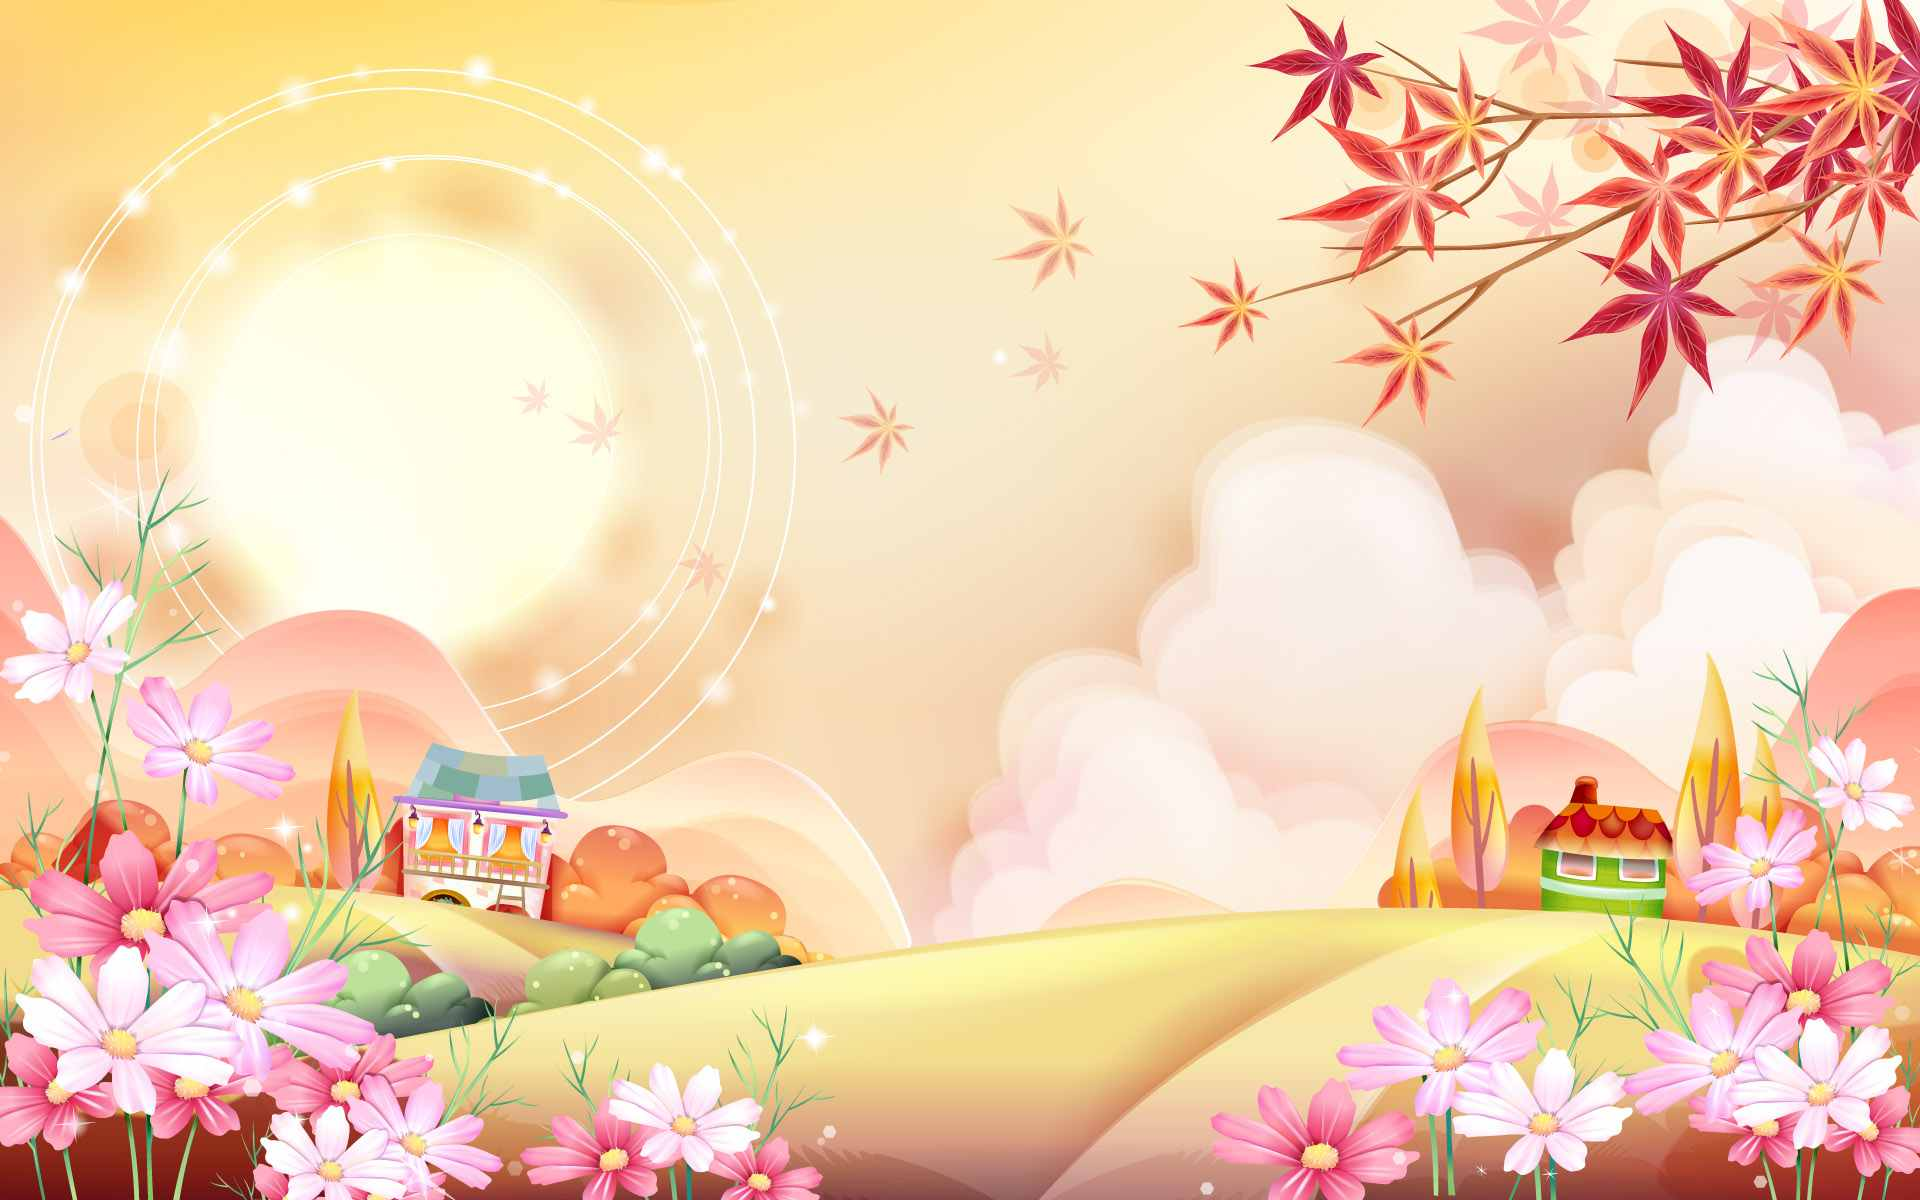
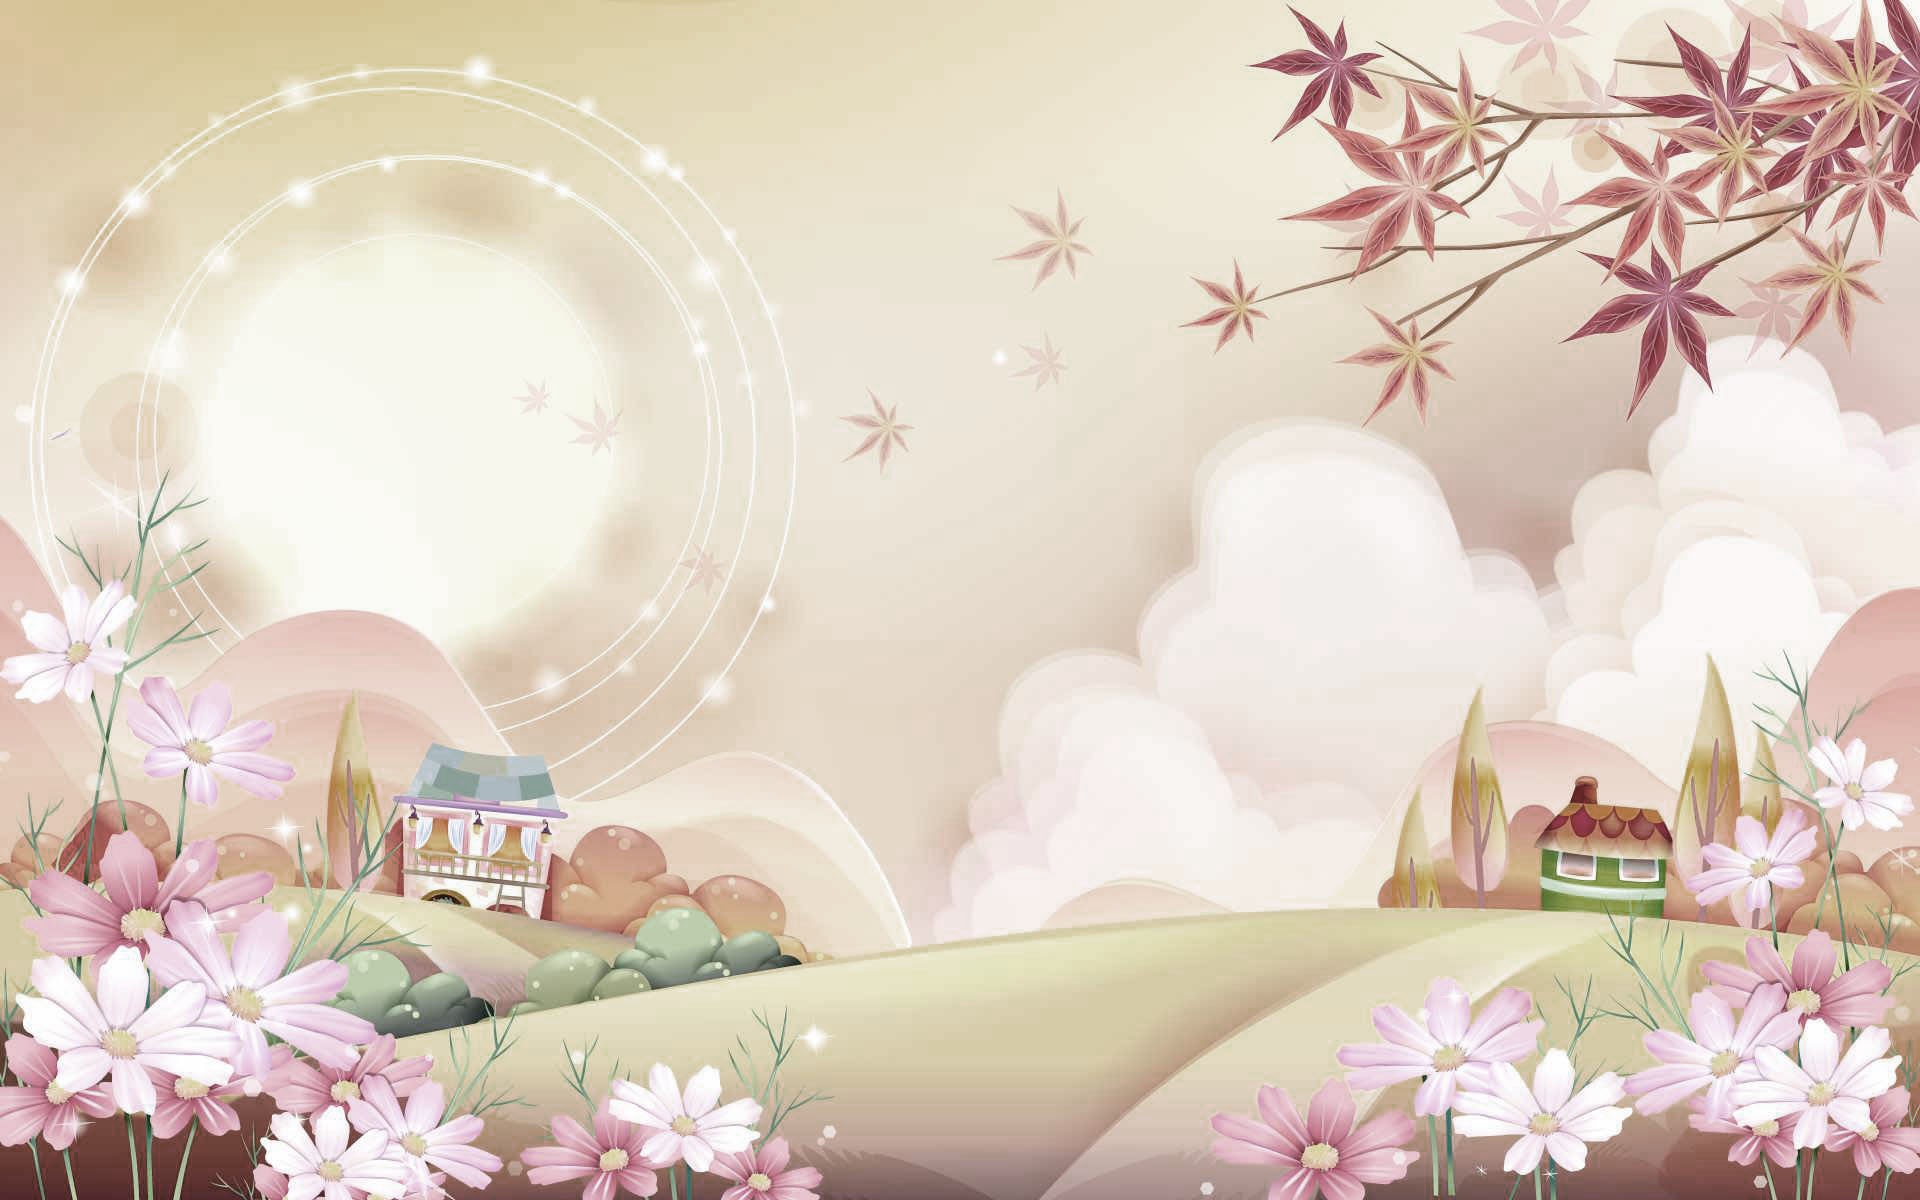
toned down the background & moved buttons inside the jumbotron

diff --git a/index.html b/index.html
@@ -5,16 +5,21 @@
      <meta charset="UTF-8">
      <meta http-equiv="X-UA-Compatible" content="ie=edge">
      <meta name="viewport" content="width=device-width, initial-scale=1.0, shrink-to-fit=no">
-
-     <title>Jiffy-Giphy</title>
      <link rel="shortcut icon" href="assets/images/icon.png" type="image/x-icon" />
+     <title>Jiffy-Giphy</title>
 
-     <!-- normalize before applying styles for consistency across platforms -->
-     <link rel="stylesheet" type="text/css" href="assets/css/normalize.css">
-
-     <!-- Bootstrap styles -->
+     <!-- Bootstrap -->
      <link rel="stylesheet" href="https://stackpath.bootstrapcdn.com/bootstrap/4.3.1/css/bootstrap.min.css"
           integrity="sha384-ggOyR0iXCbMQv3Xipma34MD+dH/1fQ784/j6cY/iJTQUOhcWr7x9JvoRxT2MZw1T" crossorigin="anonymous">
+     <script src="https://code.jquery.com/jquery-3.3.1.slim.min.js"
+          integrity="sha384-q8i/X+965DzO0rT7abK41JStQIAqVgRVzpbzo5smXKp4YfRvH+8abtTE1Pi6jizo"
+          crossorigin="anonymous"></script>
+     <script src="https://cdnjs.cloudflare.com/ajax/libs/popper.js/1.14.7/umd/popper.min.js"
+          integrity="sha384-UO2eT0CpHqdSJQ6hJty5KVphtPhzWj9WO1clHTMGa3JDZwrnQq4sF86dIHNDz0W1"
+          crossorigin="anonymous"></script>
+     <script src="https://stackpath.bootstrapcdn.com/bootstrap/4.3.1/js/bootstrap.min.js"
+          integrity="sha384-JjSmVgyd0p3pXB1rRibZUAYoIIy6OrQ6VrjIEaFf/nJGzIxFDsf4x0xIM+B07jRM"
+          crossorigin="anonymous"></script>
 
      <!-- Giphy-Mania custom styles -->
      <link rel="stylesheet" type="text/css" href="assets/css/style.css">
@@ -23,55 +28,57 @@
 <body class="m-0 p-0 w-100 h-100">
      <div id="container" class="w-75 mt-0 mx-auto text-center">
           <header>
-
                <img id="header-img" class="w-75 mx-auto my-0" src="assets/images/header.png" alt="jiffy giphy">
-
           </header>
 
-          <div id="instruction" class="h-auto mx-auto text-center">
-               <p class="text-left">
-                    See giphy images by clicking on the buttons of your choice or create your own button by using the search entry. You can then toggle between animated and still images by clicking on the pictures. Enjoy!
-               </p>
+          <div class="jumbotron bg-white h-auto mx-auto text-center">
+               <h2 class="text-left">
+                    See giphy images by clicking on the buttons of your choice or create your own button by using the
+                    search entry. You can then toggle between animated and still images by clicking on the pictures.
+                    Enjoy!
+               </h2>
+
                <p>
-                    Images are accessed from <a class="text-center text-info" href="https://giphy.com/">Giphy.com</a> via RESTful AJAX calls.
+                    Images are accessed via <a class="text-center text-info" href="https://giphy.com/">Giphy.com's</a>
+                    web service API.
                </p>
-          </div>
 
-          <div class="row p-2" id="content">
-               <div class="col-md-12">
+               <div class="row p-2" id="content">
+                    <div class="col-md-12">
 
-                    <form id="search-form" class="mx-auto p-2 font-weight-bold">
-                         <label id="search-label" class="bold" for="search-input">Search:&nbsp;</label>
-                         <input id="search-input" type="text">
-                         <button id="submit-btn">Submit</button>
-                         <button id="clear-btn">Clear Images</button>
-                    </form>
+                         <form id="search-form" class="mx-auto p-2 font-weight-bold">
+                              <label id="search-label" class="bold" for="search-input">Search:&nbsp;</label>
+                              <input id="search-input" type="text">
+                              <button id="submit-btn">Submit</button>
+                              <button id="clear-btn">Clear Images</button>
+                         </form>
 
-                    <div class="row">
-                         <div class="col-md-12" id="topic-buttons">
+                         <div class="row">
+                              <div class="col-md-12" id="topic-buttons">
 
-                              <!-- This is where the buttons will go -->
+                                   <!-- This is where the buttons will go -->
 
+                              </div>
                          </div>
-                    </div>
 
-                    <div class="row">
-                         <div class="col-md-12 text-center" id="topic-view">
+                         <div class="row">
+                              <div class="col-md-12 text-center" id="topic-view">
 
-                              <!-- This is where the images will go -->
+                                   <!-- This is where the images will go -->
 
+                              </div>
                          </div>
-                    </div>
 
-               </div> <!-- col -->
-          </div> <!-- row -->
-
+                    </div> <!-- col -->
+               </div> <!-- row -->
 
 
-          <div class="content" id="topic-view">
 
-               <!-- This is where gif images and ratings will go -->
+               <div class="content" id="topic-view">
 
+                    <!-- This is where gif images and ratings will go -->
+
+               </div>
           </div>
 
      </div> <!-- container -->

diff --git a/assets/css/style.css b/assets/css/style.css
@@ -1,37 +1,38 @@
 /* ----- element styles ----- */
 html,
 body {
-    width: 100%;
-    margin: 0;
-    padding: 0;
-    background-color: wheat;
-    background: url("../../assets/images/background.jpg");
-    background-repeat: no-repeat;
-    background-size: cover;
+	width: 100%;
+	margin: 0;
+	padding: 0;
+	background-color: wheat;
+	background: url("../../assets/images/background.jpg");
+	background-repeat: no-repeat;
+	background-size: cover;
 }
 
 button {
-    color: white;
-    background-color: #01569c;
-    border: 2px outset gray;
+	color: white;
+	background-color: #01569c;
+	border: 2px outset gray;
+}
+
+h2 {
+	font-size: large;
 }
 
 /* ----- class styles ----- */
 .gif {
-    width: 90%;
-    border: 2px outset gray;
+	width: 90%;
+	border: 2px outset gray;
 }
 
 /* ----- id styles ----- */
 header {
-    font-family: 'Arial',
-        'Helvetica Neue',
-        Helvetica,
-        sans-serif;
+	font-family: "Arial", "Helvetica Neue", Helvetica, sans-serif;
 }
 
 #instruction {
-    padding: 3px;
-    margin: auto;
-    background: rgba(245, 245, 247);
+	padding: 3px;
+	margin: auto;
+	background: rgba(245, 245, 247);
 }
